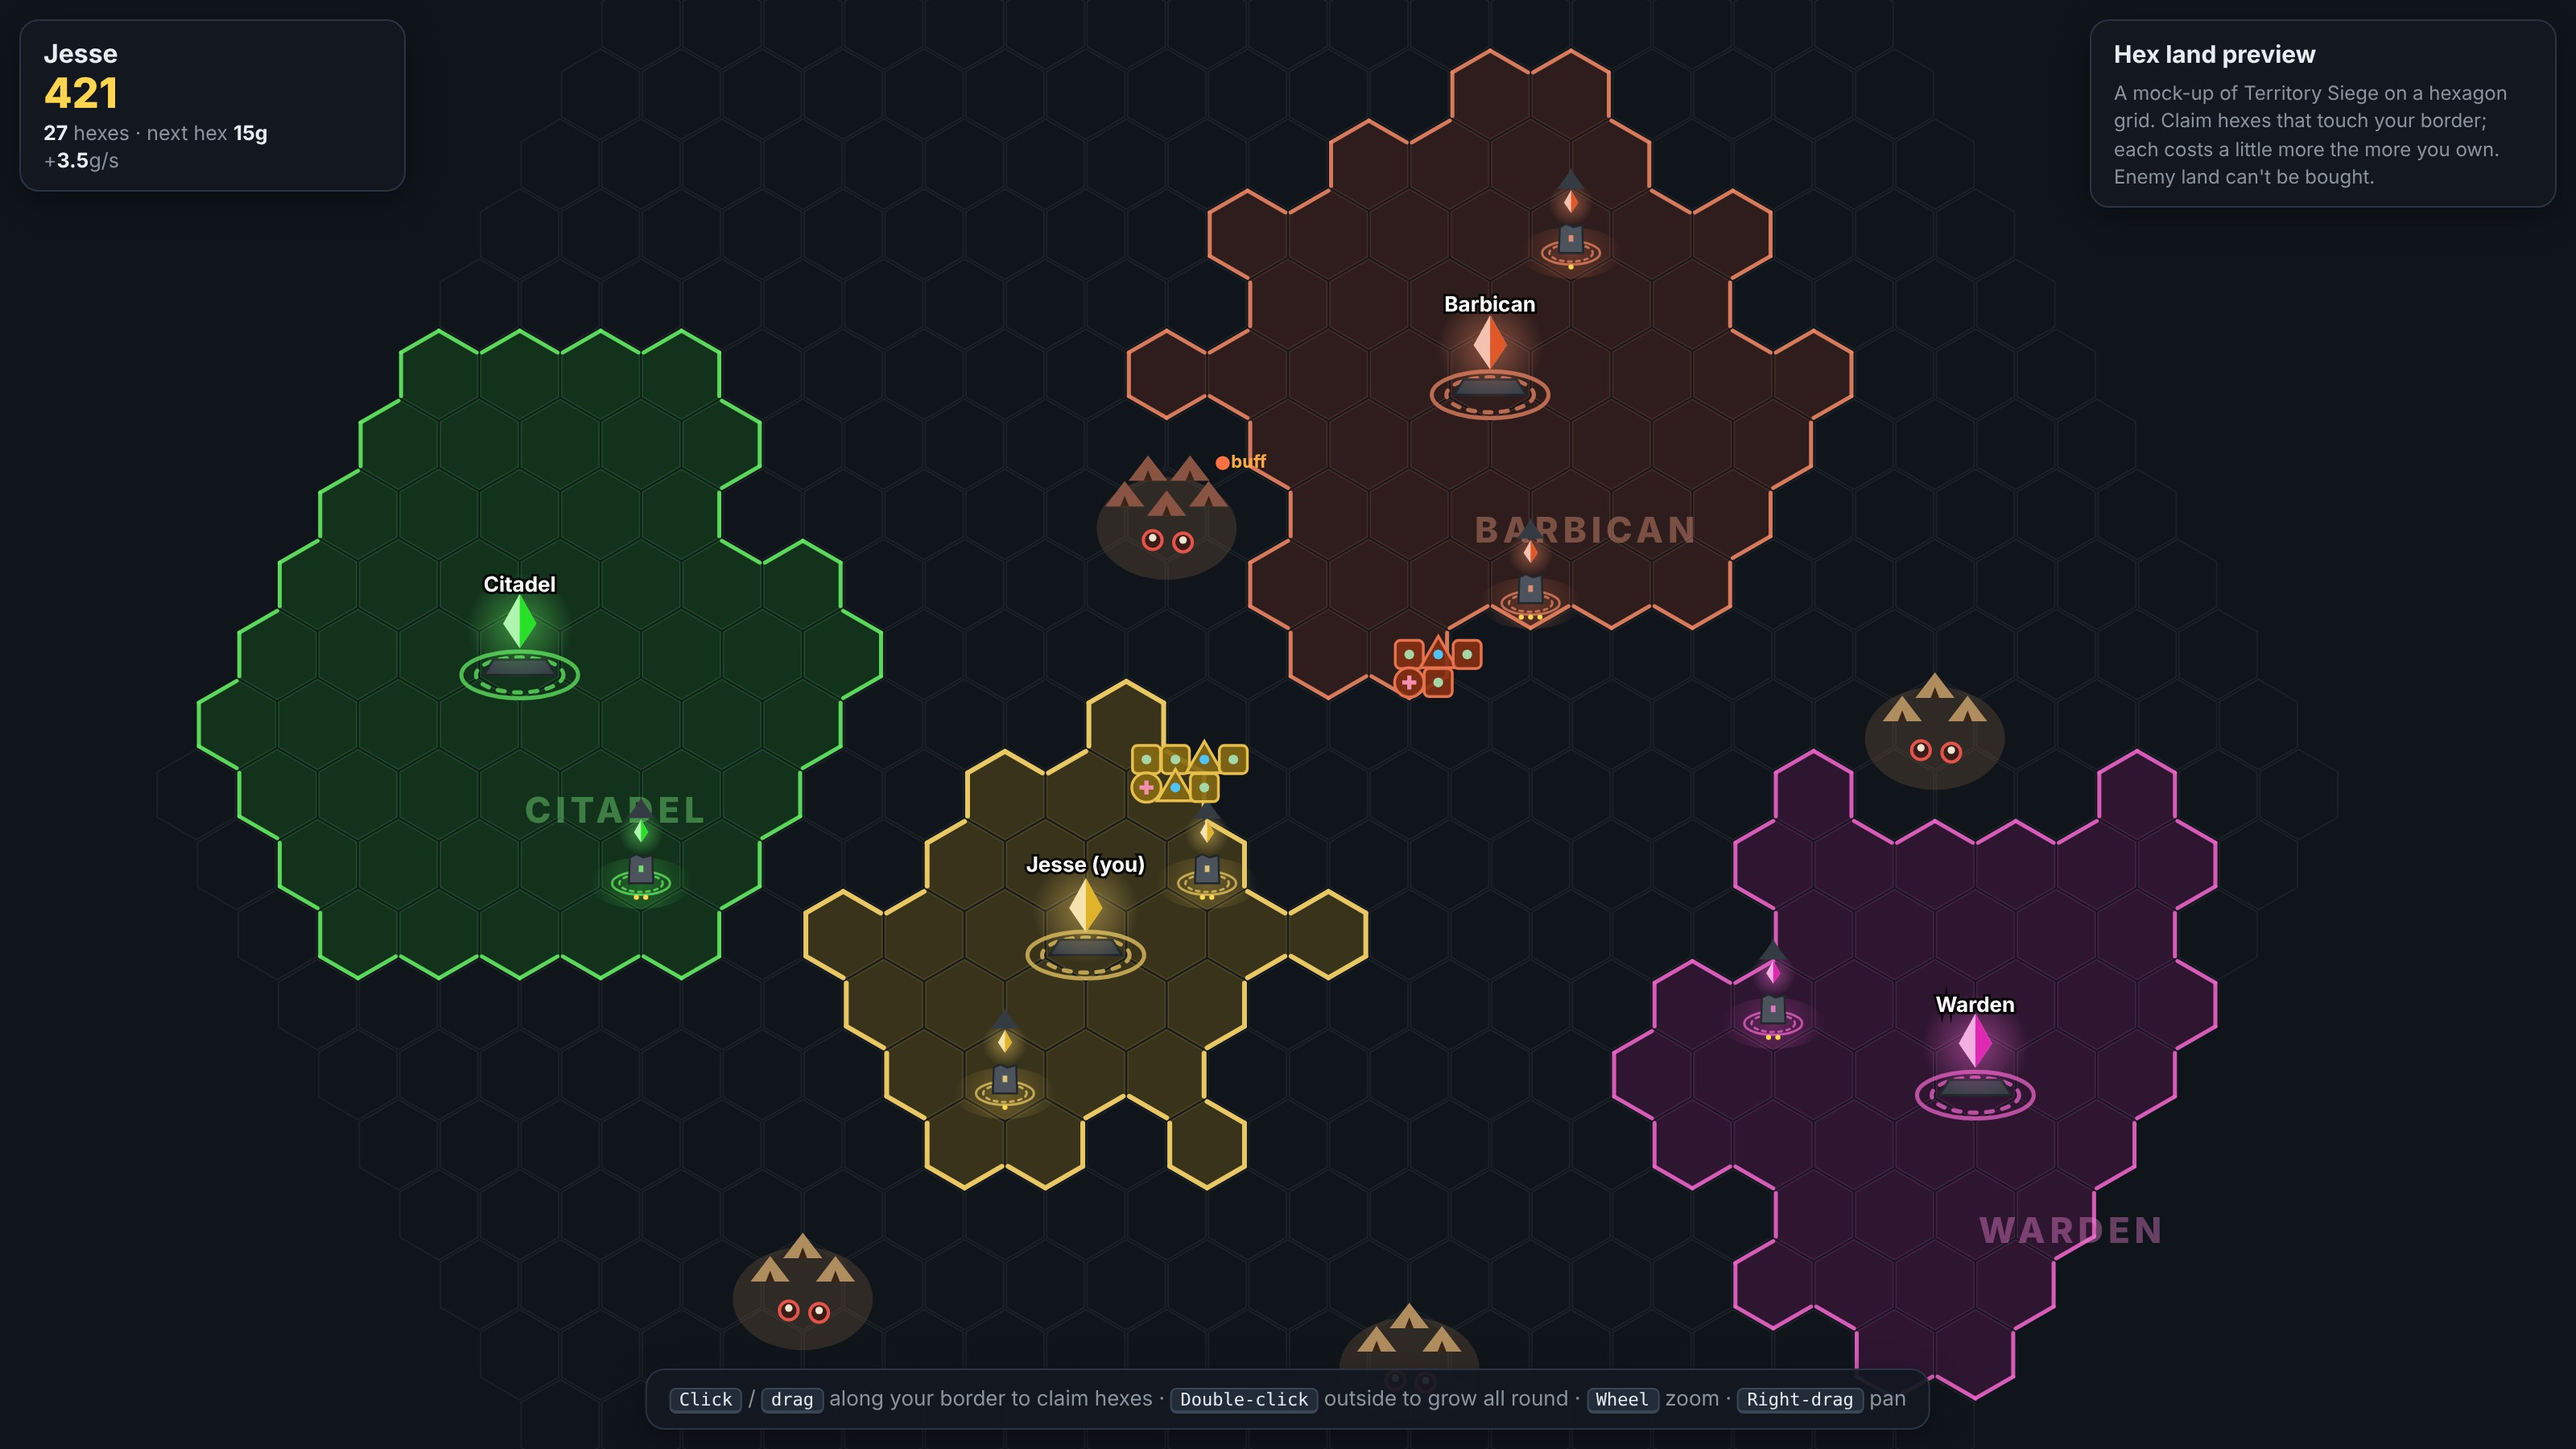
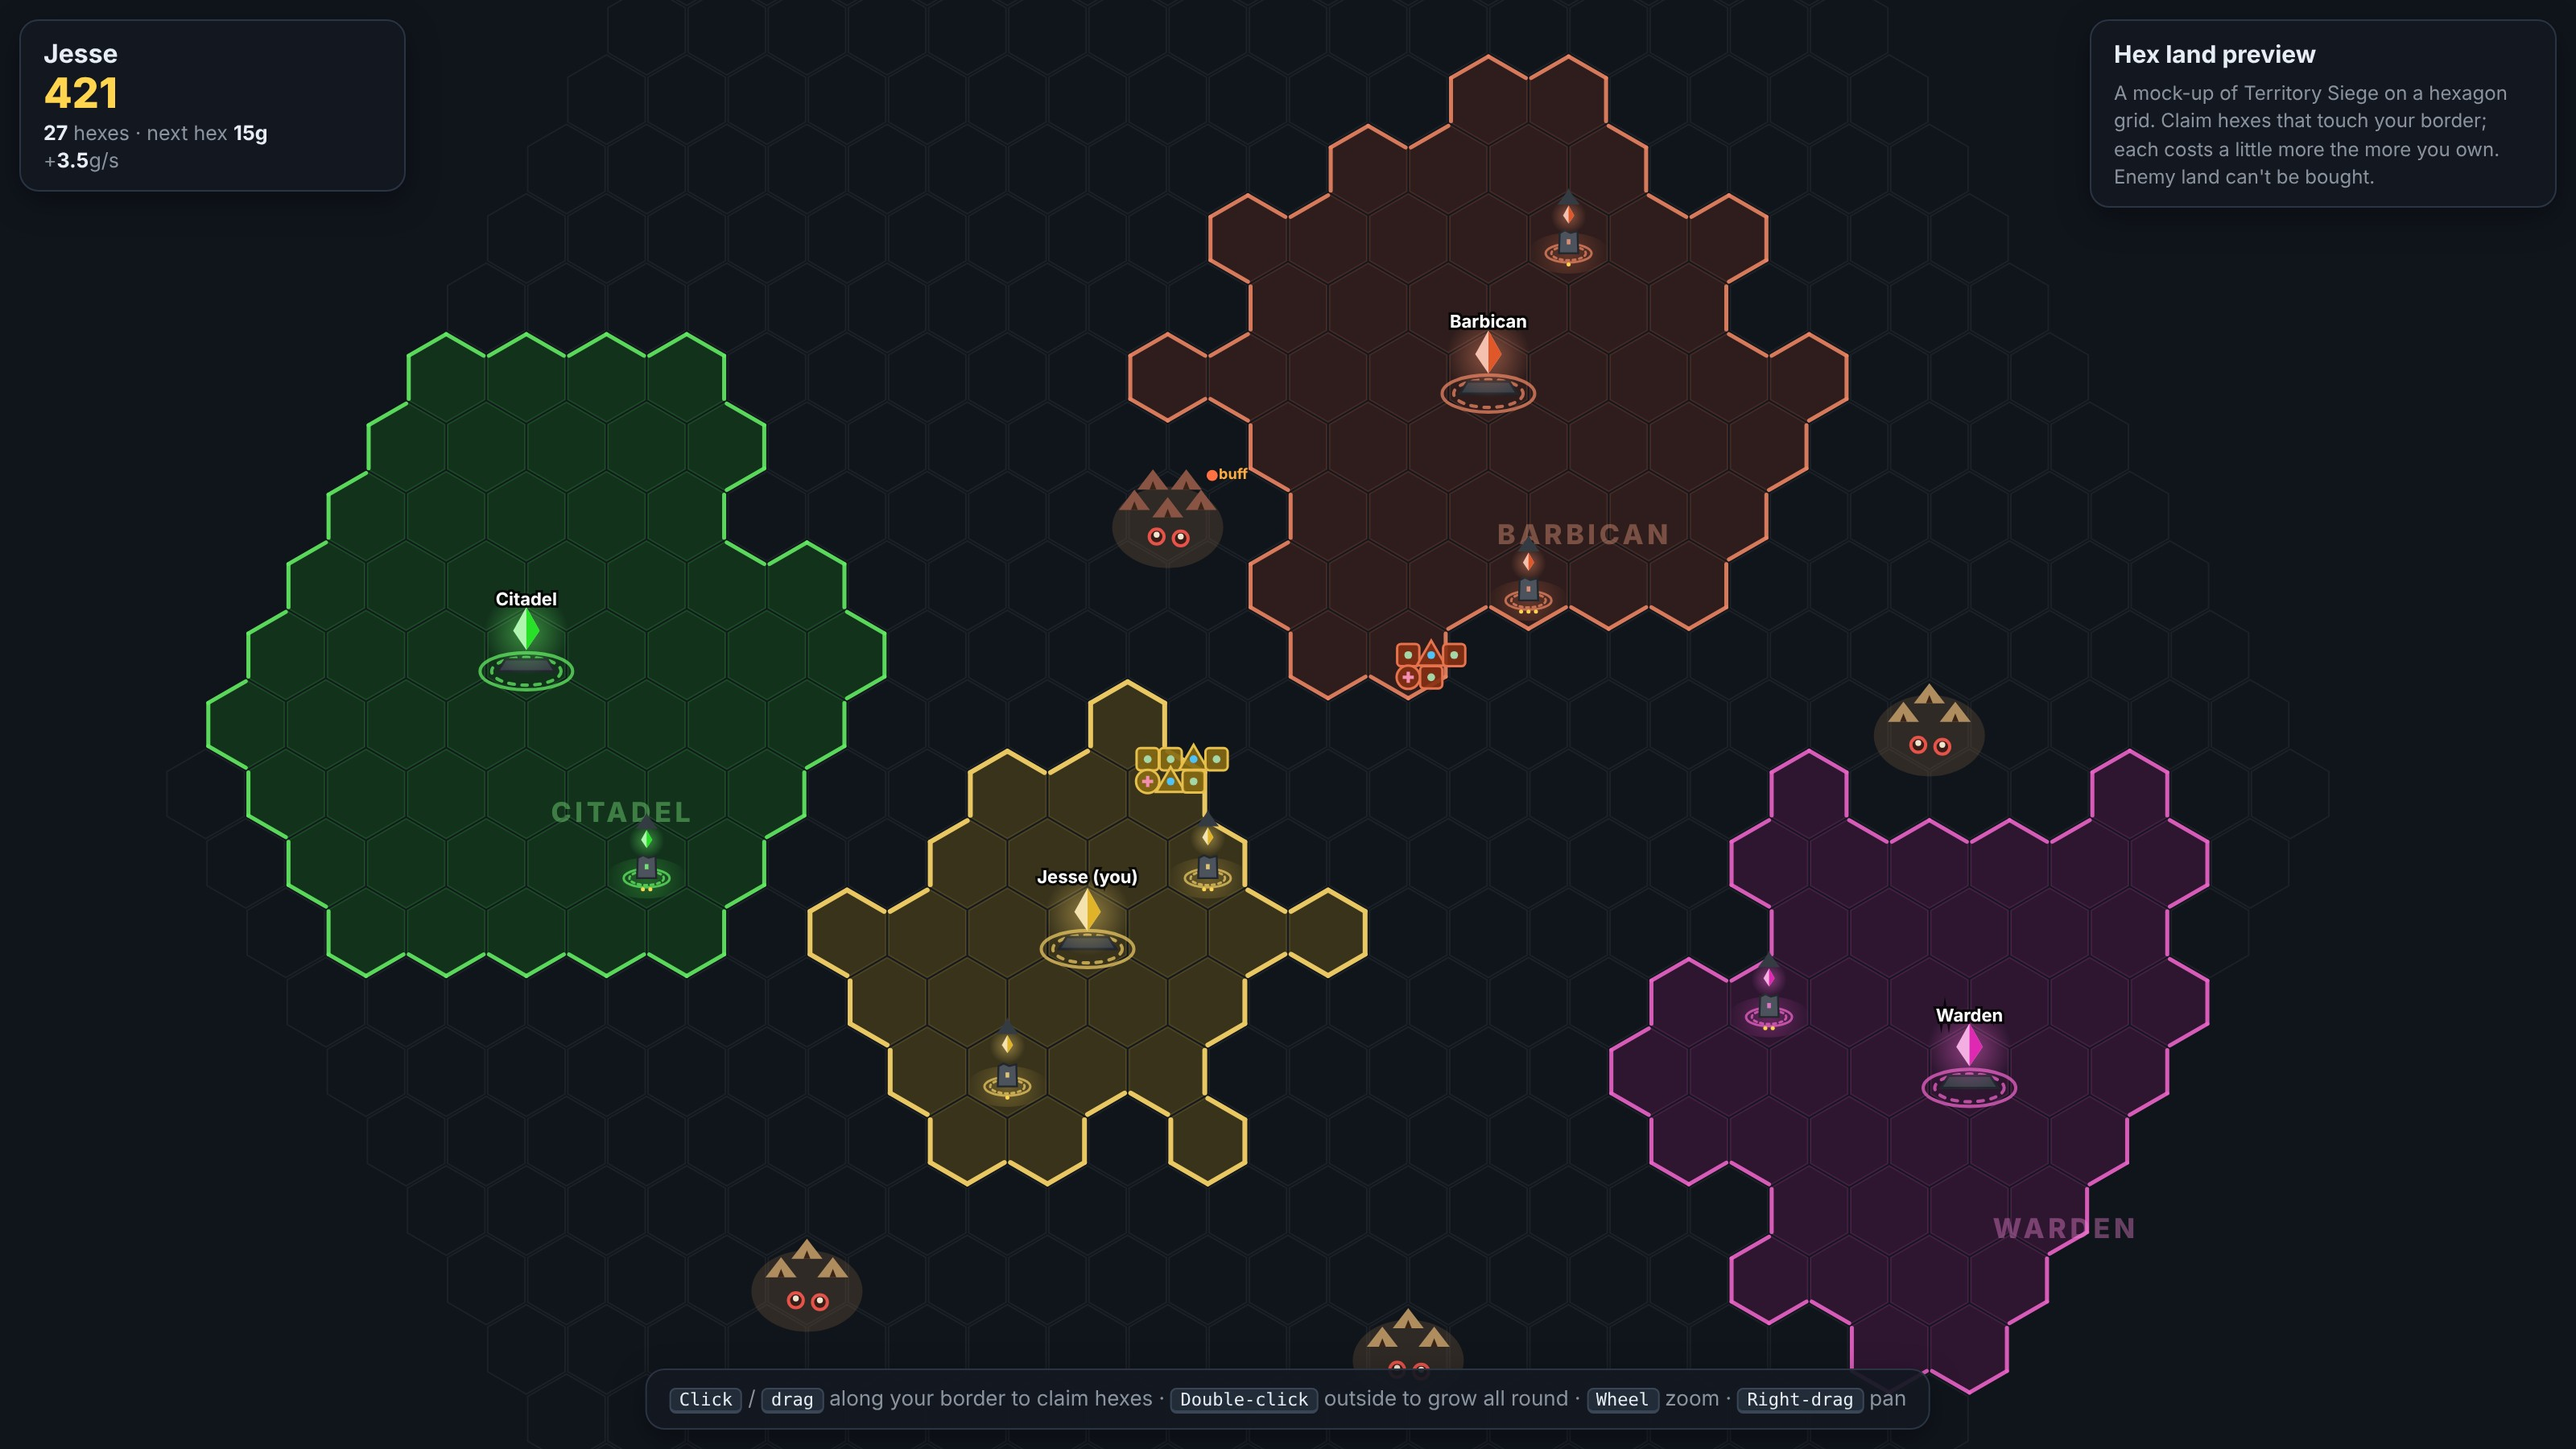
Hex preview: hexes 25% bigger relative to buildings and troops
Claude-Session: https://claude.ai/code/session_01Ryddt8EqVvd3a1HwS4TL86

diff --git a/public/hex-preview.html b/public/hex-preview.html
@@ -34,7 +34,7 @@ const SQ3 = Math.sqrt(3);
 const cv = document.getElementById('c');
 const g = cv.getContext('2d');
 let W = 0, H = 0, DPR = 1;
-const cam = { x: 0, y: 0, size: 29 };   // size = hex radius in screen px
+const cam = { x: 0, y: 0, size: 23 };   // size = hex radius in screen px
 function resize() { DPR = window.devicePixelRatio || 1; W = innerWidth; H = innerHeight; cv.width = W * DPR; cv.height = H * DPR; cv.style.width = W + 'px'; cv.style.height = H + 'px'; }
 addEventListener('resize', resize); resize();
 
@@ -42,9 +42,11 @@ const key = (q, r) => `${q},${r}`;
 const DIRS = [[1, 0], [1, -1], [0, -1], [-1, 0], [-1, 1], [0, 1]];
 const hexes = new Map(); // key -> { q, r, owner }
 for (let q = -R; q <= R; q++) for (let r = Math.max(-R, -q - R); r <= Math.min(R, -q + R); r++) hexes.set(key(q, r), { q, r, owner: 0 });
-const toPix = (q, r) => [SQ3 * (q + r / 2), 1.5 * r]; // world units (hex radius 1)
+const HS = 1.25;           // hex radius in world units: hexes are this much bigger than the buildings and troops on them
+const toPix = (q, r) => [HS * SQ3 * (q + r / 2), HS * 1.5 * r];
 const hexDist = (a, b) => (Math.abs(a.q - b.q) + Math.abs(a.r - b.r) + Math.abs(a.q + a.r - b.q - b.r)) / 2;
 function pixToHex(x, y) {
+  x /= HS; y /= HS;
   let q = (SQ3 / 3 * x - y / 3), r = (2 / 3 * y);
   let s = -q - r, rq = Math.round(q), rr = Math.round(r), rs = Math.round(s);
   const dq = Math.abs(rq - q), dr = Math.abs(rr - r), ds = Math.abs(rs - s);
@@ -157,7 +159,7 @@ function corner(cx, cy, s, i) { const a = Math.PI / 180 * (60 * i - 30); return 
 function edgeNeighbour(h, i) {
   const [x0, y0] = toPix(h.q, h.r);
   const a = Math.PI / 180 * (60 * i);           // edge midpoint direction (between corner i and i+1)
-  return pixToHex(x0 + SQ3 * Math.cos(a), y0 + SQ3 * Math.sin(a));
+  return pixToHex(x0 + HS * SQ3 * Math.cos(a), y0 + HS * SQ3 * Math.sin(a));
 }
 
 function crystal(x, y, s, pid, glow) {
@@ -214,7 +216,7 @@ function frame(t) {
   for (const h of hexes.values()) {
     const [x, y] = toScreen(...toPix(h.q, h.r));
     if (x < -s * 2 || y < -s * 2 || x > W + s * 2 || y > H + s * 2) continue;
-    hexPath(x, y, s, 1);
+    hexPath(x, y, s * HS, 1);
     if (h.owner) { g.fillStyle = col(h.owner, 50, h.owner === ME ? 0.2 : 0.15); g.fill(); }
     g.strokeStyle = h.owner ? col(h.owner, 60, 0.18) : 'rgba(255,255,255,0.05)';
     g.lineWidth = 1; g.stroke();
@@ -227,7 +229,7 @@ function frame(t) {
       const n = edgeNeighbour(h, i);
       if (n && n.owner === h.owner) continue;
       const inset = h.owner === ME ? 2.2 : 1.9;
-      const [ax, ay] = corner(x, y, s - inset, i), [bx, by] = corner(x, y, s - inset, i + 1);
+      const [ax, ay] = corner(x, y, s * HS - inset, i), [bx, by] = corner(x, y, s * HS - inset, i + 1);
       g.strokeStyle = col(h.owner, 65, h.owner === ME ? 1 : 0.9); g.lineWidth = h.owner === ME ? 3 : 2.5; g.lineCap = 'round';
       g.beginPath(); g.moveTo(ax, ay); g.lineTo(bx, by); g.stroke();
     }
@@ -237,12 +239,12 @@ function frame(t) {
   if (hover) for (const h of hexes.values()) {
     const d = hexDist(h, hover); if (d > 4 || !canBuy(h, pending)) continue;
     const [x, y] = toScreen(...toPix(h.q, h.r));
-    hexPath(x, y, s, 4); g.strokeStyle = `rgba(126,231,135,${0.75 * (1 - d / 5)})`; g.lineWidth = 2; g.setLineDash([5, 4]); g.stroke(); g.setLineDash([]);
+    hexPath(x, y, s * HS, 4); g.strokeStyle = `rgba(126,231,135,${0.75 * (1 - d / 5)})`; g.lineWidth = 2; g.setLineDash([5, 4]); g.stroke(); g.setLineDash([]);
   }
-  if (drag) for (const h of drag.list) { const [x, y] = toScreen(...toPix(h.q, h.r)); hexPath(x, y, s, 2); g.fillStyle = 'rgba(255,213,79,0.45)'; g.fill(); }
-  if (hover && canBuy(hover, pending)) { const [x, y] = toScreen(...toPix(hover.q, hover.r)); hexPath(x, y, s, 2); g.fillStyle = cost(myLand()) > gold ? 'rgba(248,81,73,.3)' : 'rgba(126,231,135,.35)'; g.fill(); }
+  if (drag) for (const h of drag.list) { const [x, y] = toScreen(...toPix(h.q, h.r)); hexPath(x, y, s * HS, 2); g.fillStyle = 'rgba(255,213,79,0.45)'; g.fill(); }
+  if (hover && canBuy(hover, pending)) { const [x, y] = toScreen(...toPix(hover.q, hover.r)); hexPath(x, y, s * HS, 2); g.fillStyle = cost(myLand()) > gold ? 'rgba(248,81,73,.3)' : 'rgba(126,231,135,.35)'; g.fill(); }
   // claim pop
-  for (let i = fx.length - 1; i >= 0; i--) { const f = fx[i], p = (t - f.t) / 500; if (p > 1) { fx.splice(i, 1); continue; } const [x, y] = toScreen(...toPix(f.h.q, f.h.r)); hexPath(x, y, s * (1 + .25 * (1 - p)), 0); g.strokeStyle = `rgba(255,255,255,${.8 * (1 - p)})`; g.lineWidth = 2; g.stroke(); }
+  for (let i = fx.length - 1; i >= 0; i--) { const f = fx[i], p = (t - f.t) / 500; if (p > 1) { fx.splice(i, 1); continue; } const [x, y] = toScreen(...toPix(f.h.q, f.h.r)); hexPath(x, y, s * HS * (1 + .25 * (1 - p)), 0); g.strokeStyle = `rgba(255,255,255,${.8 * (1 - p)})`; g.lineWidth = 2; g.stroke(); }
   // 4. names across land, camps, buildings, troops
   for (const [id, p] of Object.entries(PLAYERS)) {
     if (+id === ME) continue;
@@ -257,8 +259,8 @@ function frame(t) {
   for (const u of troops) troop(u, s);
   for (const [id, p] of Object.entries(PLAYERS)) { const [x, y] = toScreen(...toPix(p.core.q, p.core.r)); g.font = `700 ${Math.round(Math.max(11, s * .45))}px system-ui`; g.textAlign = 'center'; g.lineWidth = 3; g.strokeStyle = 'rgba(0,0,0,.8)'; const n = +id === ME ? `${p.name} (you)` : p.name; g.strokeText(n, x, y - s * 1.35); g.fillStyle = '#fff'; g.fillText(n, x, y - s * 1.35); }
   // price tag by the cursor
-  if (hover && canBuy(hover, pending) && !drag) { const [x, y] = toScreen(...toPix(hover.q, hover.r)); const c = cost(myLand()); g.font = '700 12px system-ui'; g.textAlign = 'left'; g.lineWidth = 3; g.strokeStyle = 'rgba(0,0,0,.85)'; g.strokeText(`Claim: ${c}g`, x + s * .9, y + 4); g.fillStyle = c > gold ? '#ffa198' : '#7ee787'; g.fillText(`Claim: ${c}g`, x + s * .9, y + 4); }
-  if (drag && drag.list.length) { const h = drag.list[drag.list.length - 1]; const [x, y] = toScreen(...toPix(h.q, h.r)); let tot = 0; for (let i = 0; i < drag.list.length; i++) tot += cost(myLand() + i); g.font = '700 12px system-ui'; g.textAlign = 'left'; g.lineWidth = 3; g.strokeStyle = 'rgba(0,0,0,.85)'; const tx = `+${drag.list.length} hexes: ${tot}g`; g.strokeText(tx, x + s * .9, y + 4); g.fillStyle = '#ffd54f'; g.fillText(tx, x + s * .9, y + 4); }
+  if (hover && canBuy(hover, pending) && !drag) { const [x, y] = toScreen(...toPix(hover.q, hover.r)); const c = cost(myLand()); g.font = '700 12px system-ui'; g.textAlign = 'left'; g.lineWidth = 3; g.strokeStyle = 'rgba(0,0,0,.85)'; g.strokeText(`Claim: ${c}g`, x + s * HS * .9, y + 4); g.fillStyle = c > gold ? '#ffa198' : '#7ee787'; g.fillText(`Claim: ${c}g`, x + s * HS * .9, y + 4); }
+  if (drag && drag.list.length) { const h = drag.list[drag.list.length - 1]; const [x, y] = toScreen(...toPix(h.q, h.r)); let tot = 0; for (let i = 0; i < drag.list.length; i++) tot += cost(myLand() + i); g.font = '700 12px system-ui'; g.textAlign = 'left'; g.lineWidth = 3; g.strokeStyle = 'rgba(0,0,0,.85)'; const tx = `+${drag.list.length} hexes: ${tot}g`; g.strokeText(tx, x + s * HS * .9, y + 4); g.fillStyle = '#ffd54f'; g.fillText(tx, x + s * HS * .9, y + 4); }
   requestAnimationFrame(frame);
 }
 // start centred between my base and the rivals
